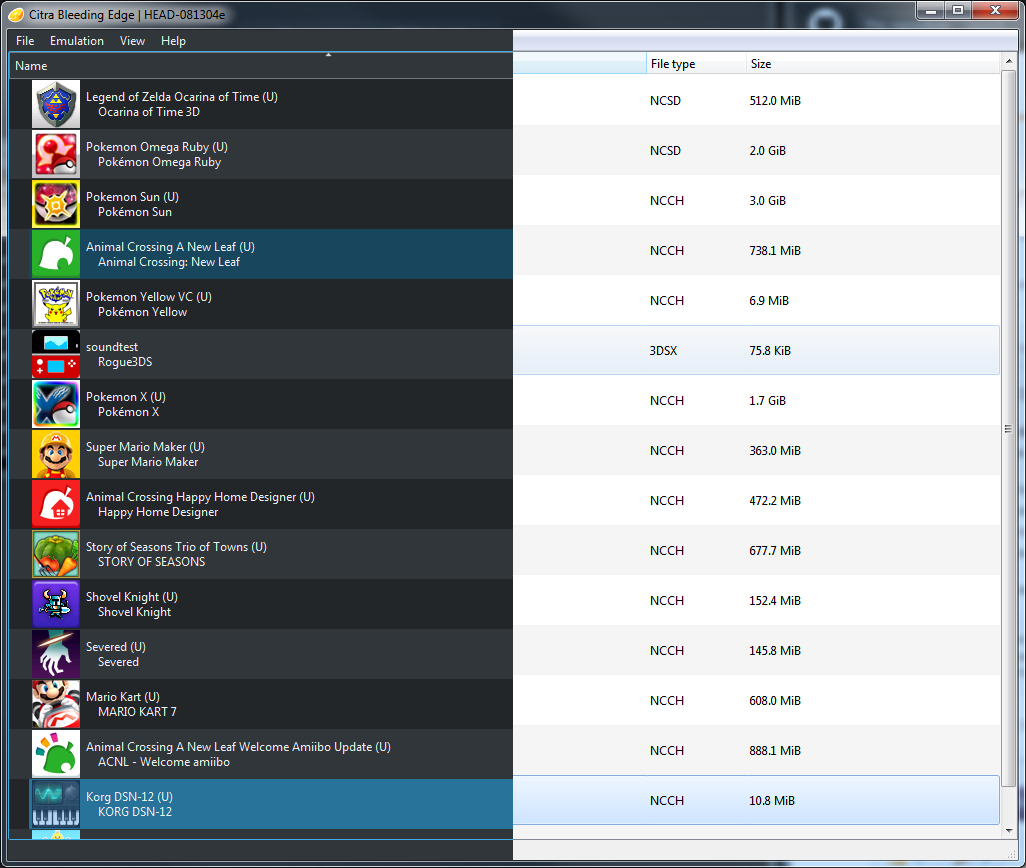
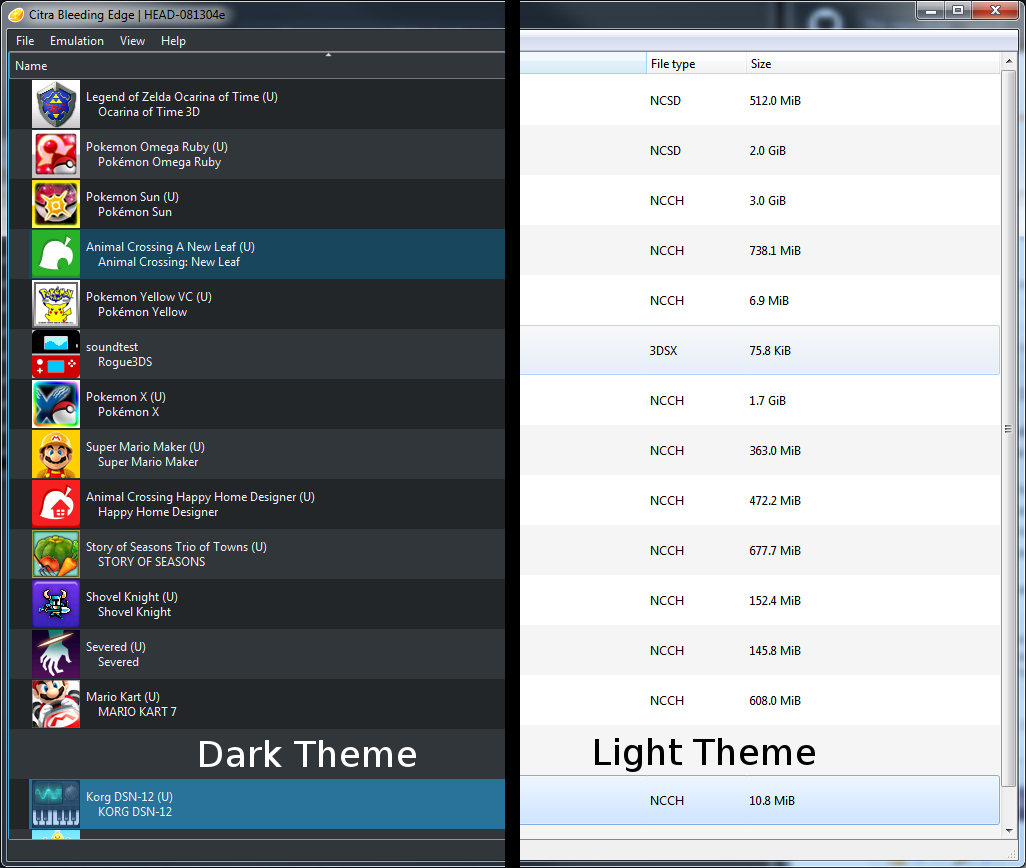
Quickfix EVERYTHING

Changed region(s): [[0.4678, 0.0, 0.5302, 1.0], [0.0312, 0.8399, 0.4055, 0.9021], [0.5926, 0.8399, 0.8109, 0.9021]]

diff --git a/site/content/entry/citra-progress-report-2017-july.md b/site/content/entry/citra-progress-report-2017-july.md
@@ -1,17 +1,16 @@
 +++
-date = "2017-08-01T12:38:00-04:00"
+date = "2017-08-16T14:31:00-04:00"
 title = "Citra Progress Report - 2017 July"
 tags = [ "progress-report" ]
-author = "Saphiresurf"
+author = "saphiresurf"
 forum = 0000
 +++
 
-With June bringing in many huge improvements to GPU functionality, July has come in to sweep up and improve accuracy in a few distinct areas of Citra. Changes and fixes ranging from texture handling all the way to aesthetic changes that help improve the visual appeal and customizability of Citra's QT interface. Now, let's get into what's changed!
-<br />
+With June bringing in many huge improvements to GPU functionality, July has come in to sweep up and improve accuracy in a few distinct areas of Citra. Changes and fixes ranging from texture handling all the way to aesthetic changes that help improve the visual appeal and customizability of Citra's Qt interface. Now, let's get into what's changed!
 
 ## [GPU: Fix Edge Cases for TextureCopy](https://github.com/citra-emu/citra/pull/2809) by [wwylele](https://github.com/wwylele)
 
-What texture copy essentially does is perform a copy of a texture, but with a configurable gap in case the texture is going to be copied into a smaller resolution area. In a bit more technical terms TextureCopy is a data transfer mode handled by the GPU that's activated when the third bit in the GPU's flags register (a register which is only accessible by the ARM11 processor) is set to 1. This particular process ignores all other bits in the gpu's flags register except for bit 2 (which still needs to be set so the GPU knows if it needs to crop the texture or not) and regular dimension registers are ignored.
+The 3DS GPU has a data transfer mode called `TextureCopy`, which as the name says, is for copying textures but with a configurable gap, in case the texture is going to be copied into a smaller resolution area. This mode is enabled by setting the 3rd flag in the GPU and causes it to ignore every other flag except the 2nd, which is used to tell it whether or not to crop the texture. 
 
 What's nice about this is that it can be used as a quick and easy way for 3DS developers to duplicate textures and can be used in situations such as the one pictured running on hardware in Pokemon Super Mystery Dungeon below. This is really nice for those creating games, but when it came to running something that took advantage of this feature in Citra it didn't always work the same as it would on console. This provided us with an accuracy issue that needed to be solved.
 
@@ -34,13 +33,13 @@ Fortunately (and to much rejoice) wwylele stepped into the ring to wrestle with 
 title_id = 0004000000174600
 commit_hash = 57438cf51f3bdae71a694d2ebe96ad563968781c
 -->
-*Now we get an accurate portrayal of deoxys having a hard time*
+Deoxys is having a bit of a hard time, no?
 </p>
 
 
 ## [Citra-QT: UI Themes](https://github.com/citra-emu/citra/pull/2804) by [Kloen](https://github.com/kloen)
 
-Kloen has put the time and work into Citra's Qt frontent to make it themable! Now users can rejoice in the sweet sweet glory of a dark mode alternate and custom coloring schemes!
+[Kloen](https://github.com/kloen) has put the time and work into Citra's Qt frontend to make it themable! Now users can enjoy a dark mode and other custom coloring schemes!
 
 <p style="text-align: center; font-size: small; padding: 1%">
 <img style="padding: 0% 0% 1% 0%" height="75%" width="75%" alt="Comparison of Dark Theme and Light Theme" src="/images/entry/citra-progress-report-2017-july/theme-comparison.png" />
@@ -55,8 +54,8 @@ CHOOSE YOUR CHARACTER
 
 **This does not elimate the need for dumping a shared font from a legitimate system.**
 
-This in itself isn't an extremely visible or perceivable change from a user perspective, but it is something that helps us take another stride towards accurately recreating the way the 3DS actually operates. All system data is now uniformly stored in the system archive now that the system font can be included with it. Although, Citra does still fall back to the now deprecated shared_font.bin file that was being dumped before for compatibility's sake. ``3dsutil`` has been updated to be able to dump everything as a system archive so that Citra may be able to work with it in a way that's more accurate to the actual hardware!
+This in itself isn't an extremely visible or perceivable change from a user perspective, but it is something that helps us take another stride towards accurately recreating the way the 3DS actually operates. All system data is now uniformly stored in the system archive now that the system font can be included with it. Although, Citra does still fall back to the now deprecated `shared_font.bin` file that was being dumped before for compatibility's sake. `3dsutil` has been updated to be able to dump everything as a system archive so that Citra may be able to work with it in a way that's more accurate to the actual hardware!
 
 ## To Contributors
 
-Thank you to [everyone who's contributed](https://github.com/citra-emu/citra/graphs/contributors?from=2017-07-10&to=2017-08-10&type=c) for months before, beyond, and during July for all of the work that you've put into Citra. Without all of you the project would not have shown the progress that it has in the past year and with you all I don't think it's showing any sign of slowing down!
+Thank you to [everyone who's contributed](https://github.com/citra-emu/citra/graphs/contributors?from=2017-07-10&to=2017-08-16&type=c) for months before, beyond, and during July for all of the work that you've put into Citra. Without all of you the project would not have shown the progress that it has in the past year and with you all I don't think it's showing any sign of slowing down!
